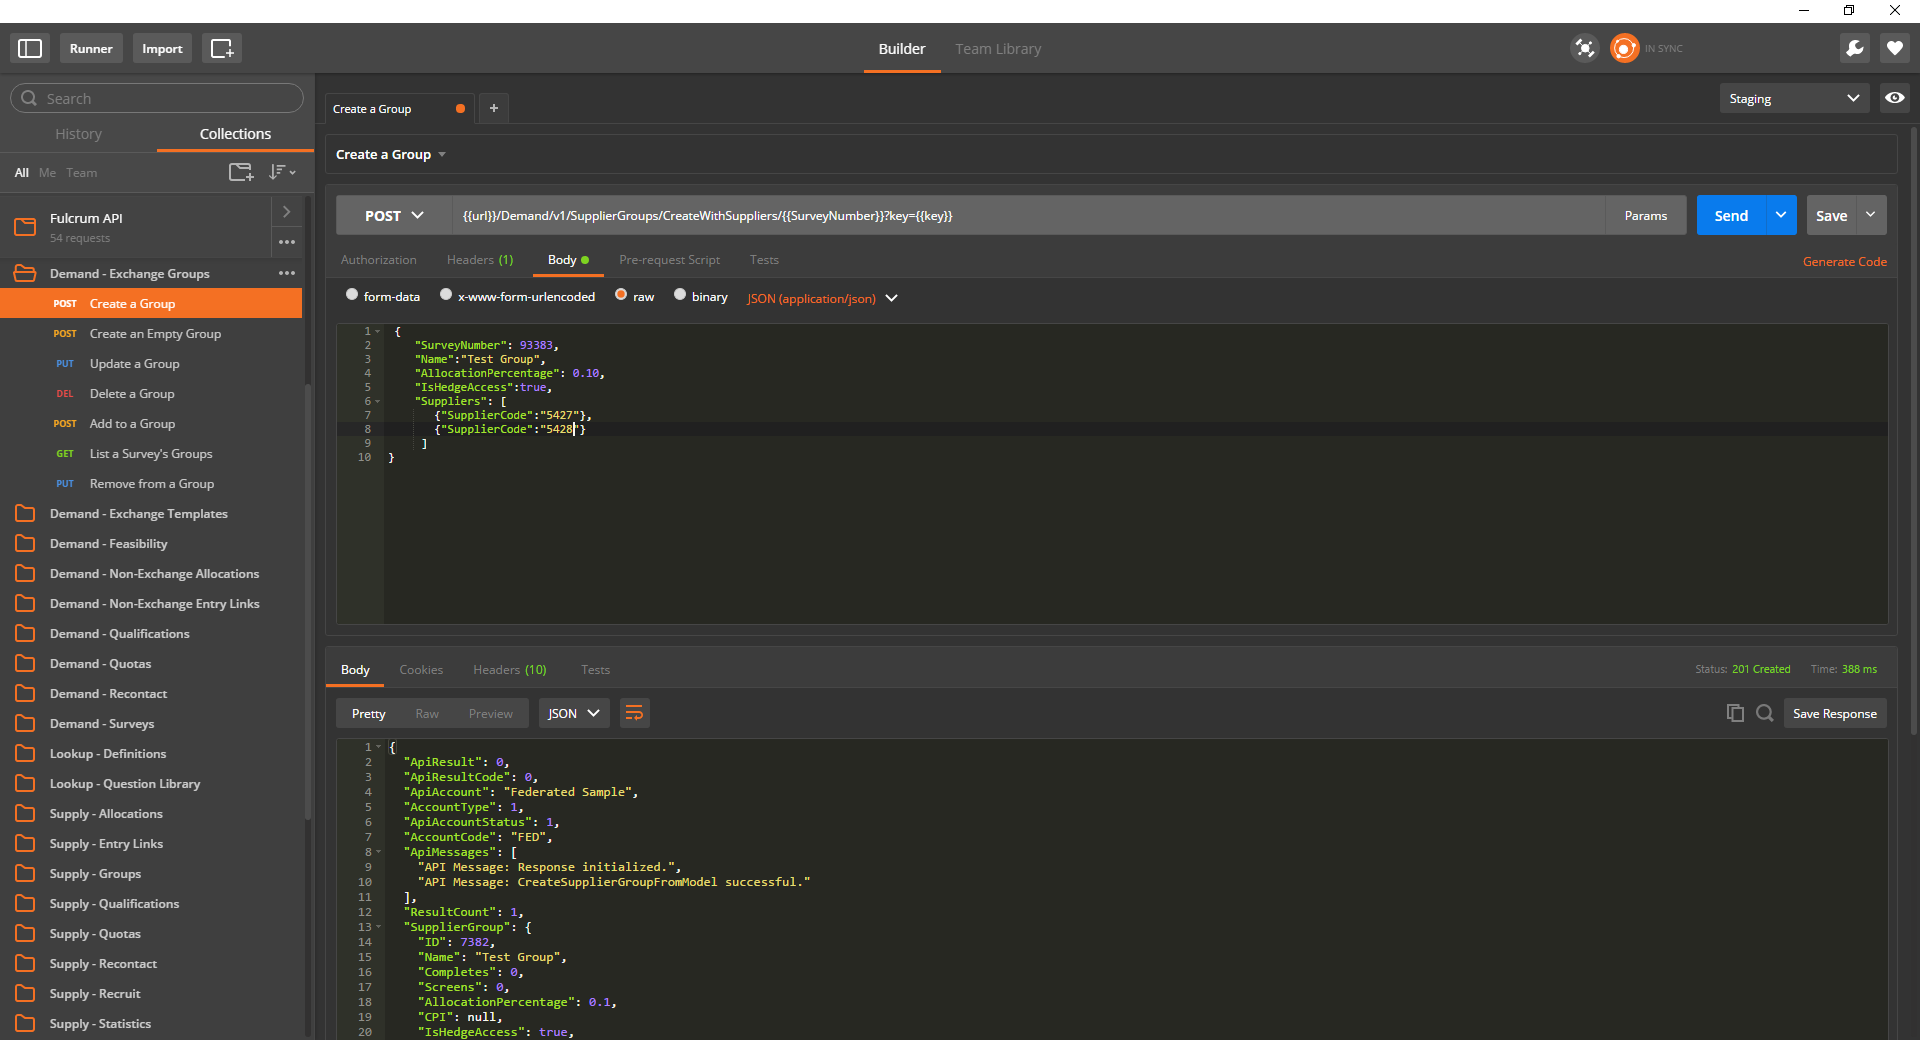
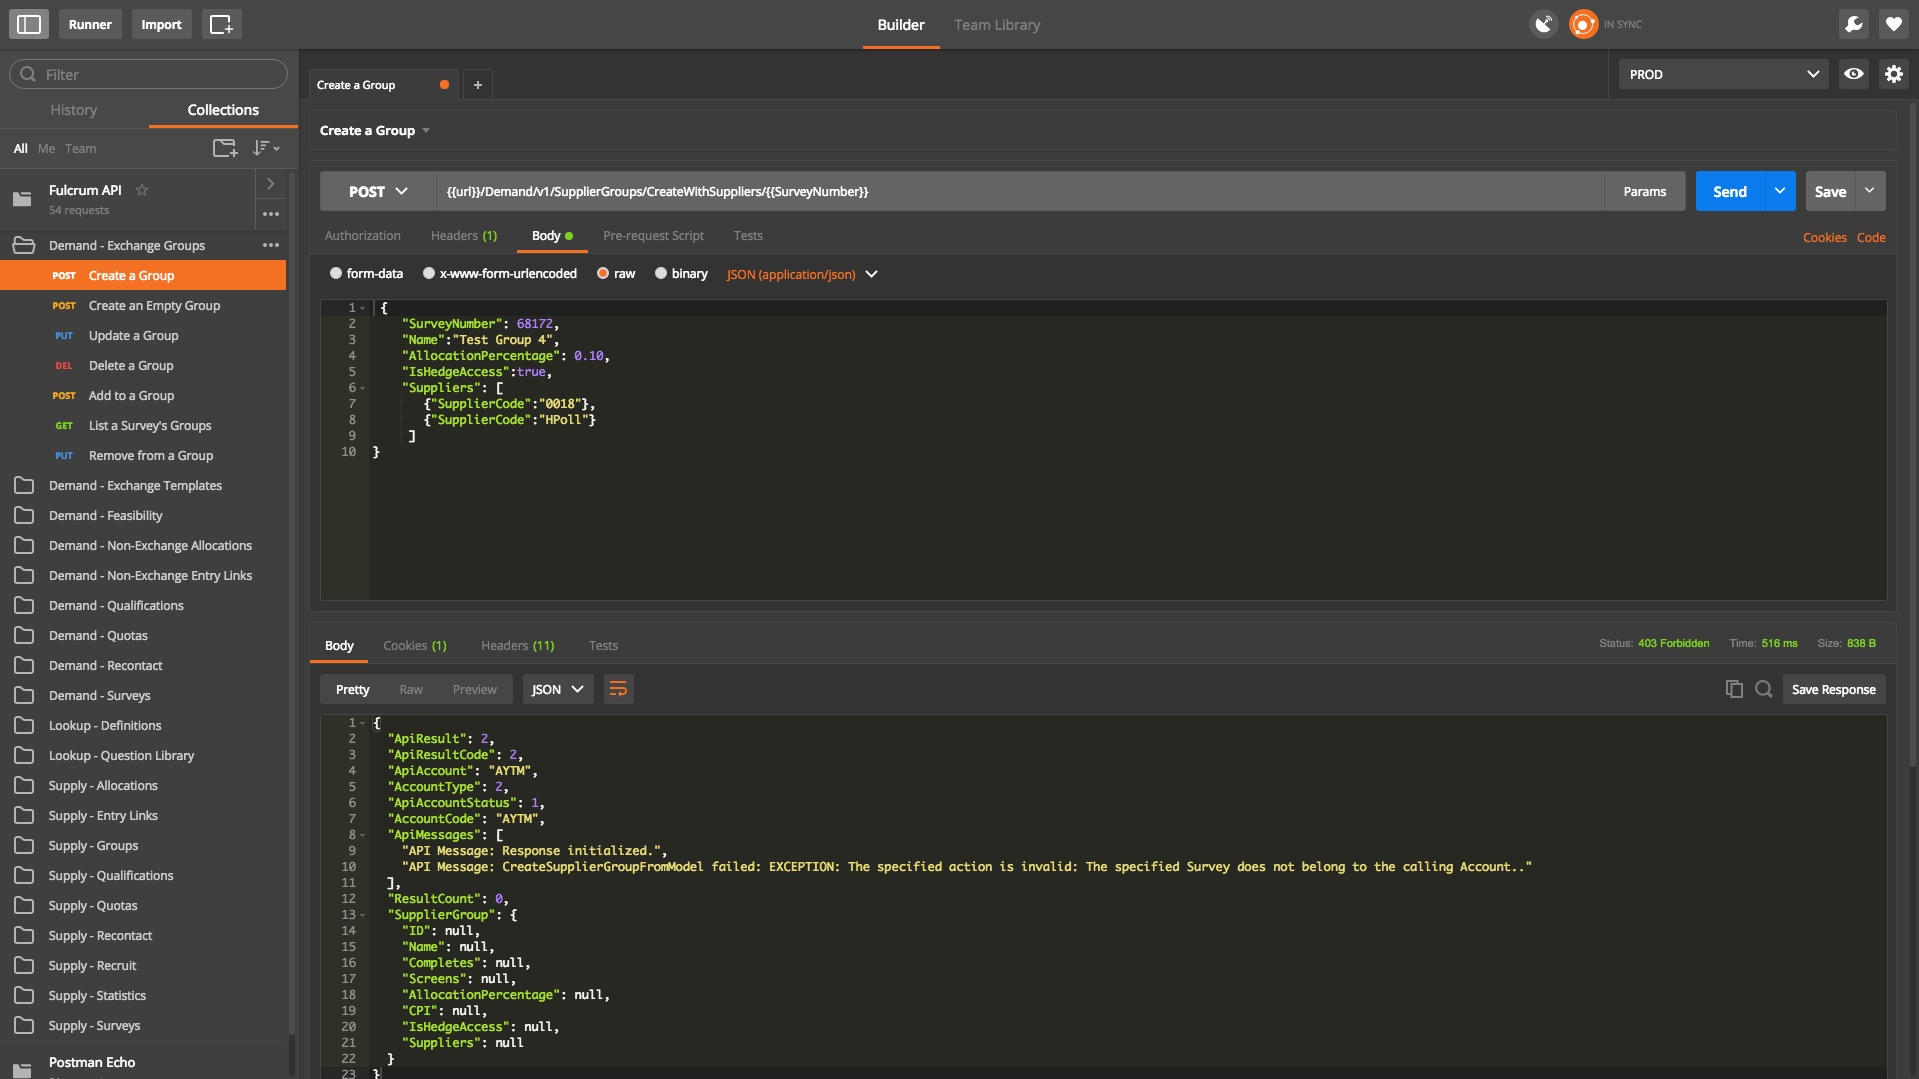
Changed introduction reference API keys in headers, including updating postman pic. Also added 202 reponse code (used in reconciliations).

Changed region(s): [[0.0, 0.0, 1.0, 1.0], [0.1537, 0.5538, 0.9838, 1.0], [0.8916, 0.0923, 0.9224, 0.1231]]

diff --git a/source/includes/introduction/_status-codes.md b/source/includes/introduction/_status-codes.md
@@ -1,6 +1,6 @@
 ## HTTP Status Codes
 
-Fulcrum uses conventional HTTP response codes to indicate the success or failure of an API request. In general, codes in the `2xx` range indicate success, codes in the `4xx` range indicate an error caused by the information provided (i.e., a required parameter was omitted, a method was not found, etc.), and codes in the `5xx` range indicate an error with Fulcrum's servers (these are rare). 
+Fulcrum uses conventional HTTP response codes to indicate the success or failure of an API request. In general, codes in the `2xx` range indicate success, codes in the `4xx` range indicate an error caused by the information provided (i.e., a required parameter was omitted, a method was not found, etc.), and codes in the `5xx` range indicate an error with Fulcrum's servers (these are rare).
 
 | Status Code 	| Status Text				| Description																																		|
 |---------------|---------------------------|---------------------------------------------------------------------------------------------------------------------------------------------------|
@@ -8,6 +8,7 @@ Fulcrum uses conventional HTTP response codes to indicate the success or failure
 |				|							| GET: The resource has been fetched and is transmitted in the message body.																		|
 |				|							| POST: The resource describing the result of the action is transmitted in the message body															|
 | 201			| Created					| The request has succeeded and a new resource has been created as a result of it. This is typically the response sent after a PUT request.			|
+| 202			| Accepted				| The request has succeeded and has been added to the queue, but the resource has not yet been created. This is typically the response sent after PUT and POST requests.			|
 | 204			| No Content				| There is no content to send for this request. This is common for DELETE requests.																	|
 | 400			| Bad Request				| This response means that server could not understand the request due to invalid syntax.															|
 | 401			| Unauthorized				| Authentication is needed to get requested response. This is similar to 403, but in this case, authentication is possible.							|

diff --git a/source/includes/introduction/_request-format.md b/source/includes/introduction/_request-format.md
@@ -3,13 +3,13 @@
 > JSON URI
 
 ```plaintext
-GET  https://stg-api.samplicio.us/Demand/v1/Surveys/BySurveyNumber/22789?key=5175285E-D74B-46A8-AE2C-EF95B3A5175B
+GET  https://stg-api.samplicio.us/Demand/v1/Surveys/BySurveyNumber/22789
 ```
 
 > XML URI
 
 ```plaintext
-GET  https://stg-api.samplicio.us/Demand/v1/Surveys/BySurveyNumber/xml/22789?key=5175285E-D74B-46A8-AE2C-EF95B3A5175B
+GET  https://stg-api.samplicio.us/Demand/v1/Surveys/BySurveyNumber/xml/22789
 ```
 
-The Fulcrum API accepts JSON requests by default; however, developers who prefer XML can use that format as well. To send XML payloads, simply append `/xml/` to the path immediately before any parameters. 
+The Fulcrum API accepts JSON requests by default; however, developers who prefer XML can use that format as well. To send XML payloads, simply append `/xml/` to the path immediately before any parameters.

diff --git a/source/includes/introduction/_authentication.md b/source/includes/introduction/_authentication.md
@@ -1,7 +1,7 @@
 ## Authentication
 
 ```plaintext
-GET  https://stg-api.samplicio.us/Demand/v1/Surveys/BySurveyNumber/22789?key=5175285E-D74B-46A8-AE2C-EF95B3A5175B
+GET  https://stg-api.samplicio.us/Demand/v1/Surveys/BySurveyNumber/22789
 ```
 
-The Fulcrum API uses simple key-based authentication over SSL. Every call should have a `key` variable appended to the query string. Ensure that the key you are passing is the correct key for the environment. If you don't already have a Fulcrum account, get started by [signing up for a demo](https://luc.id/fulcrum/)!
+The Fulcrum API uses HTTP Authorization header for authentication. Every call should have a header `Authorization: {{APIkey}}`. Ensure that the key you are passing is the correct key for the environment. If you don't already have a Fulcrum account, get started by [signing up for a demo](https://luc.id/fulcrum/)!
